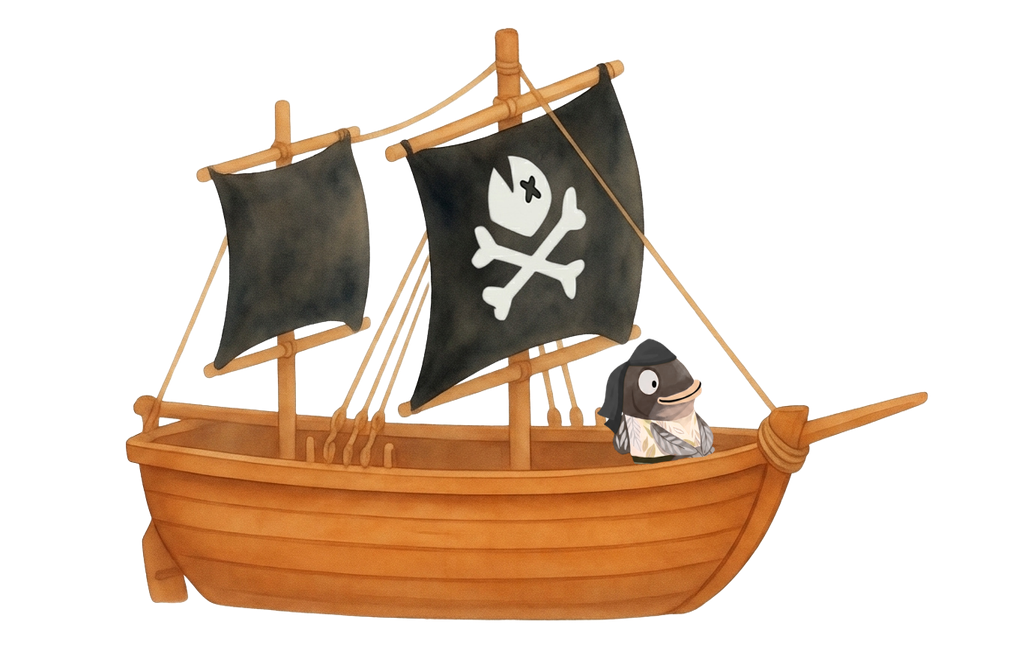
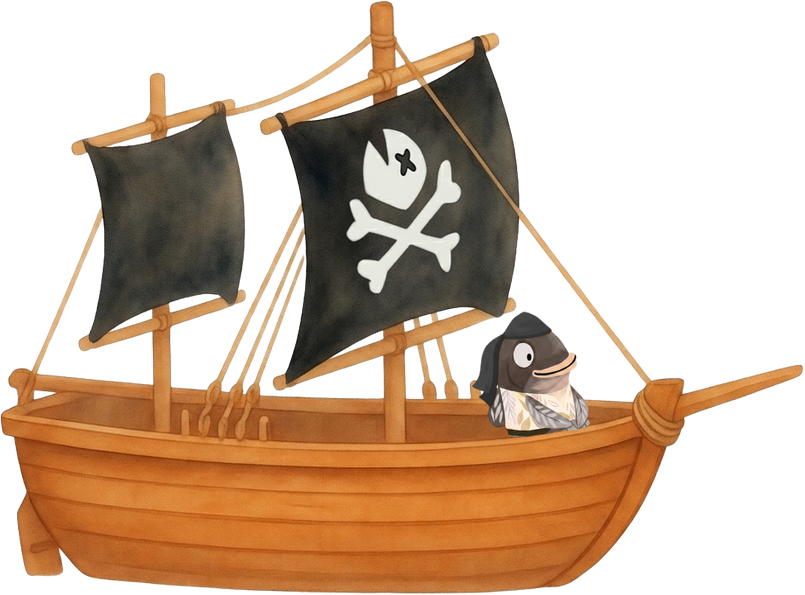
Tide Run: trim transparent padding from new boatrun.png (805x595 actual content vs the 1031x672 canvas with padding); SHIP_ASPECT updated so the trimmed boat fills the same canvas slot the old boat did

diff --git a/web/app/(app)/tavern/tide-run/TideRunGame.tsx b/web/app/(app)/tavern/tide-run/TideRunGame.tsx
@@ -18,7 +18,7 @@ const SHIP_HEIGHT_PCT = 0.095  // small Canabalt-style sprite (~9.5% of canvas h
 // sizing to a mobile-representative reference so the ship stays its tuned
 // pixel size on tall screens (mobile unchanged). Tuned 2026-05-19.
 const SHIP_SIZING_REF_H = 620
-const SHIP_ASPECT     = 1031 / 672   // trimmed boatrun.png
+const SHIP_ASPECT     = 805 / 595    // trimmed boatrun.png (redesigned 2026-06-06)
 
 // Ship physics — Canabalt feel. Boat rides the wave surface; press-and-hold
 // to jump (longer hold → higher jump). No automatic launches off crests.
